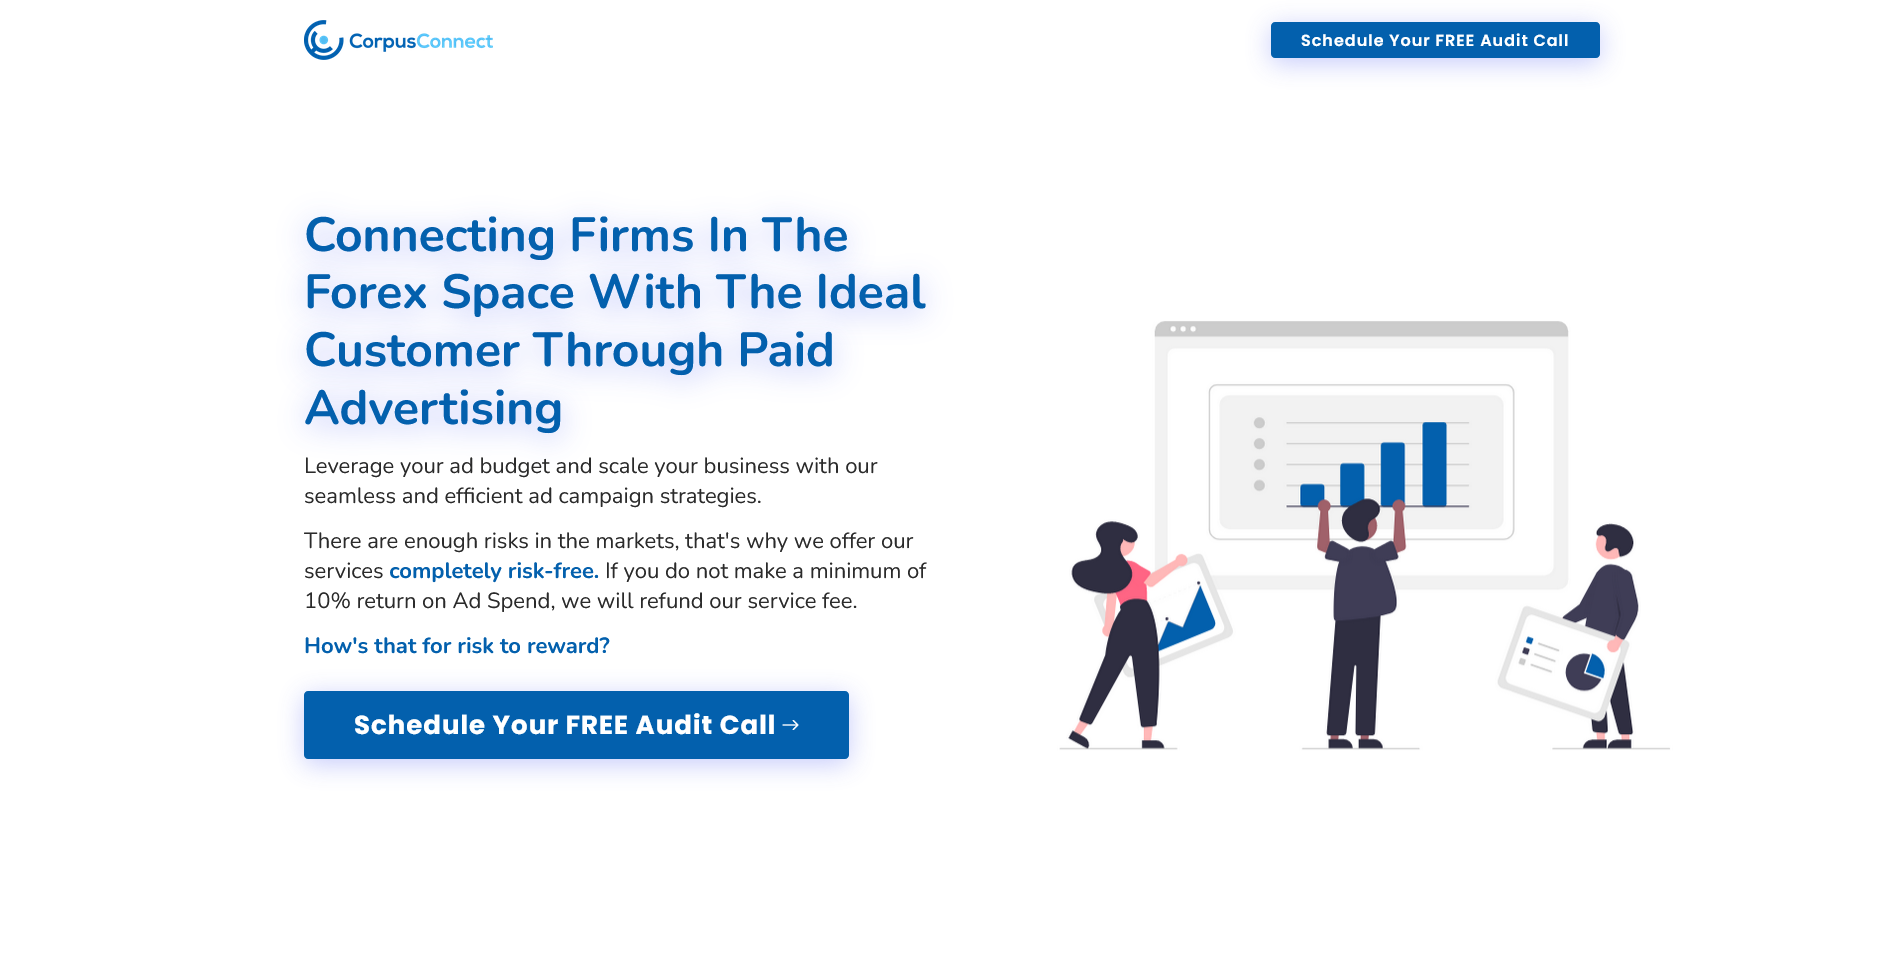
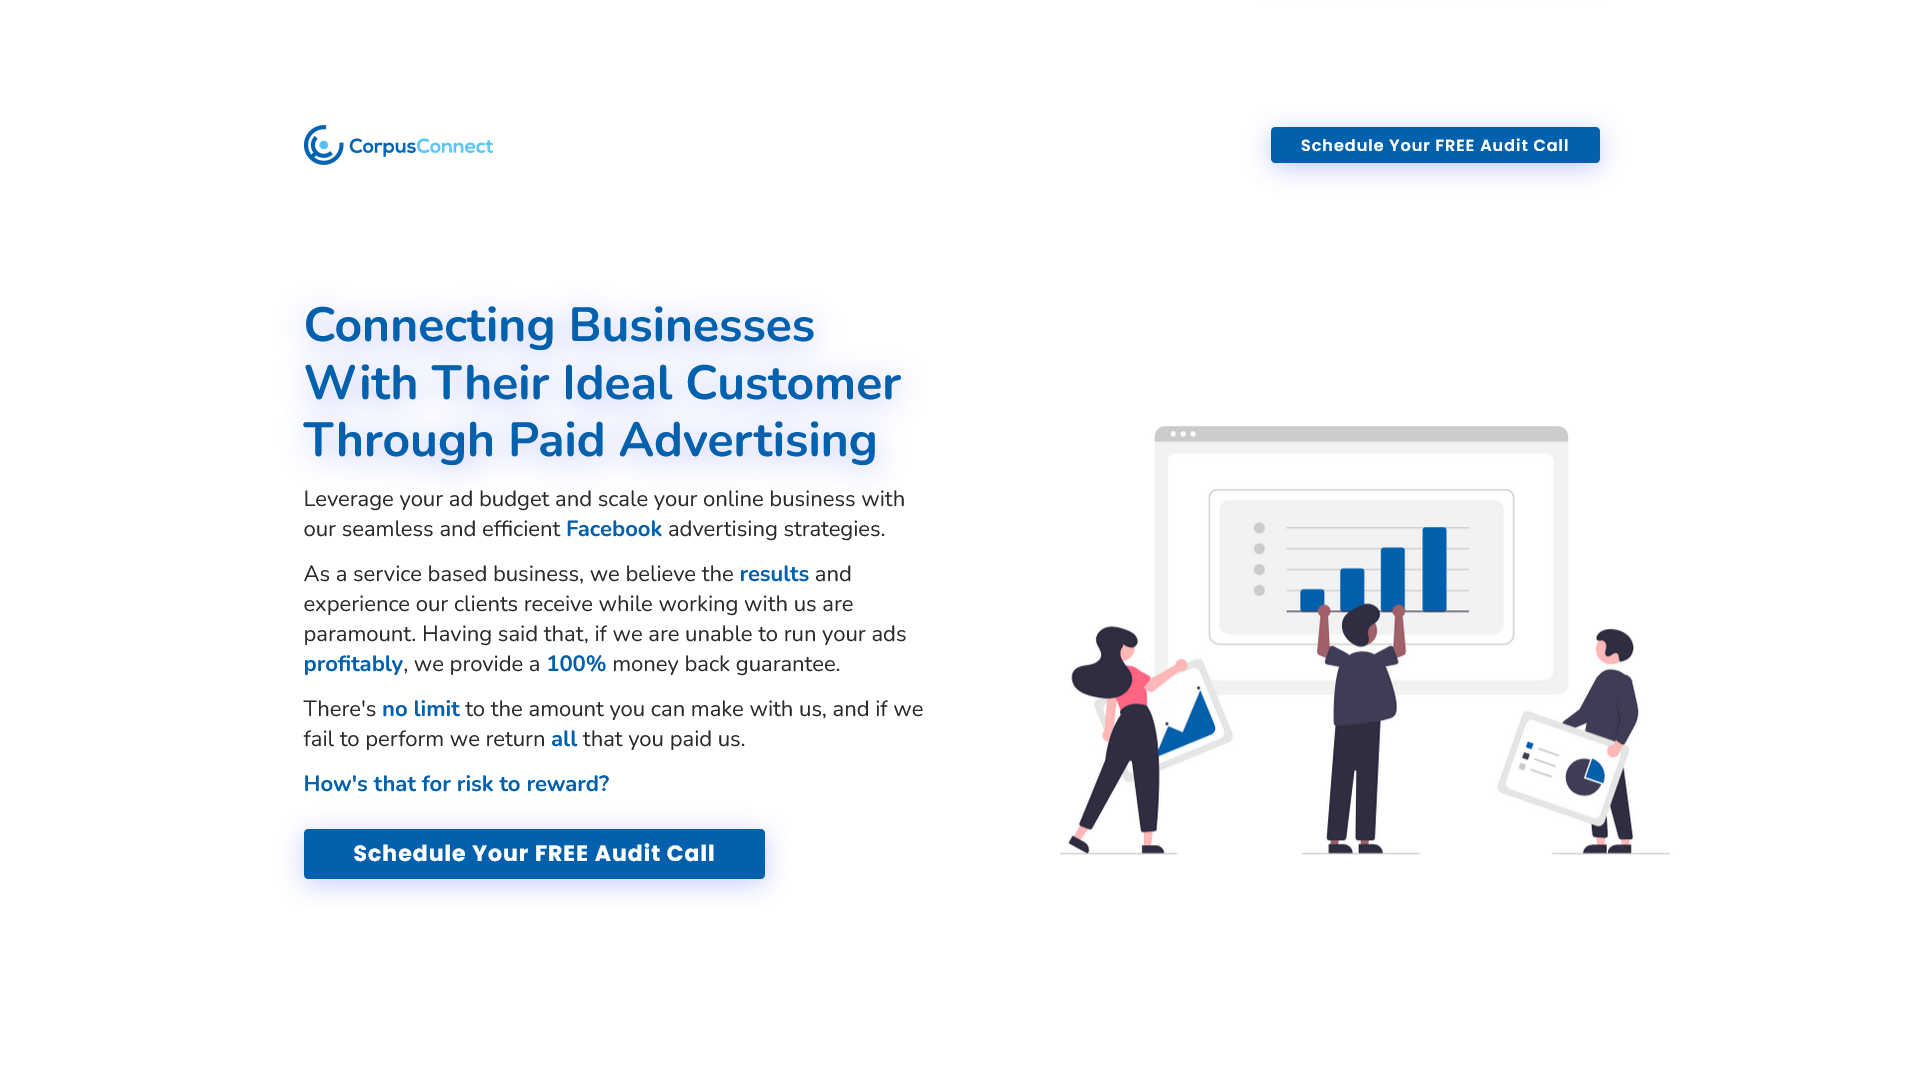
Update to main card

diff --git a/src/data/fixtures.ts b/src/data/fixtures.ts
@@ -1,8 +1,8 @@
 export default {
   author: "Terico Adamson",
   hero: {
-    subtitle: "Web Developer & UX Designer",
-    description: "Developing beautiful projects for the creative mind.",
+    subtitle: "Professional Web Developer & Designer",
+    description: "Developing beautiful projects for the creative and ambitious mind.",
     cta: "View Projects",
   },
   products: {
@@ -10,14 +10,14 @@ export default {
       {
         name: "CorpusConnect",
         medium: "Bootstrap · JavaScript",
-        summary: "Risk-Free Business Advertising Growth",
+        summary: "Lead Generation Website with Call-to-Action",
         copy: [
-          "We excel in crafting optimized ad campaigns which generate high-quality leads, who develop into paying customers."
+          "This website was developed for a local digital marketing agency that specializes in creating advertisment campaigns for its clients."
         ],
         links: {
           color: "#363636",
           primary: {
-            name: "Discover",
+            name: "View Website",
             url: "https://corpusconnect.com"
           }
         },
